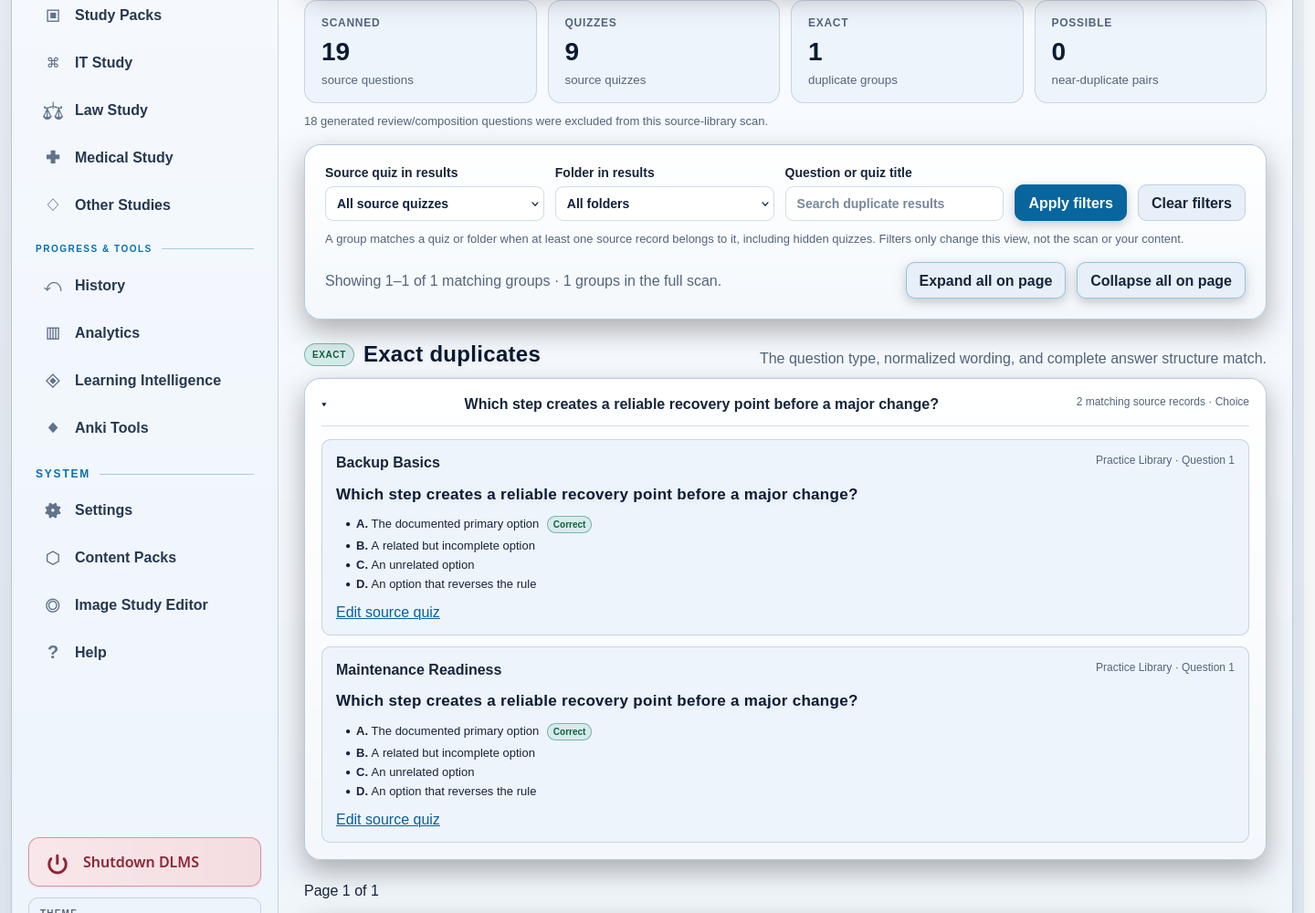
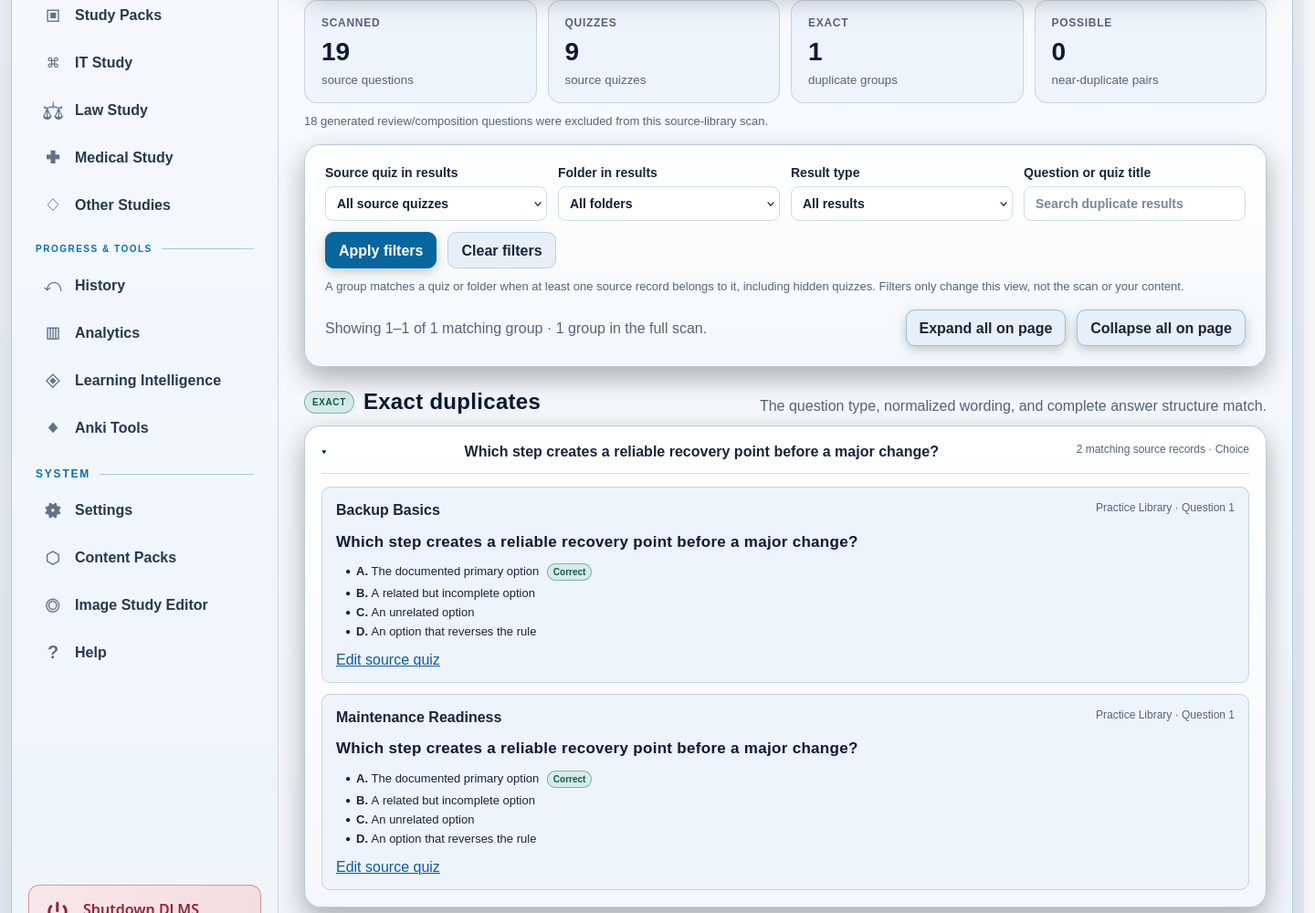
feat: add duplicate review result-type filtering

Changed region(s): [[0.0312, 0.186, 0.9688, 1.0], [0.8438, 0.775, 0.9375, 0.806], [0.8438, 0.713, 0.9375, 0.744]]

diff --git a/templates/quiz/duplicates.html b/templates/quiz/duplicates.html
@@ -63,13 +63,13 @@
             <form method="GET" action="/library/duplicates" class="duplicate-question-filters">
                 <label class="build-field"><span>Source quiz in results</span><select name="quiz" id="duplicateQuizFilter"><option value="">All source quizzes</option>{% for id, title in duplicate_view.quizzes %}<option value="{{ id }}"{% if duplicate_view.quiz == id|string %} selected{% endif %}>{{ title }} · Quiz #{{ id }}</option>{% endfor %}</select></label>
                 <label class="build-field"><span>Folder in results</span><select name="folder" id="duplicateFolderFilter"><option value="">All folders</option>{% for folder in duplicate_view.folders %}<option value="{{ folder }}"{% if duplicate_view.folder == folder %} selected{% endif %}>{{ folder }}</option>{% endfor %}</select></label>
+                <label class="build-field"><span>Result type</span><select name="result_type" id="duplicateResultTypeFilter"><option value="all"{% if duplicate_view.result_type == 'all' %} selected{% endif %}>All results</option><option value="exact"{% if duplicate_view.result_type == 'exact' %} selected{% endif %}>Exact duplicates</option><option value="possible"{% if duplicate_view.result_type == 'possible' %} selected{% endif %}>Possible matches</option></select></label>
                 <label class="build-field"><span>Question or quiz title</span><input type="search" name="search" id="duplicateSearch" value="{{ duplicate_view.search }}" placeholder="Search duplicate results"></label>
-                <button class="library-primary-action" type="submit">Apply filters</button>
-                <a class="library-secondary-action" href="/library/duplicates">Clear filters</a>
+                <div class="duplicate-question-filter-actions"><button class="library-primary-action" type="submit">Apply filters</button><a class="library-secondary-action" href="/library/duplicates">Clear filters</a></div>
             </form>
             <p class="duplicate-question-generated-note">A group matches a quiz or folder when at least one source record belongs to it, including hidden quizzes. Filters only change this view, not the scan or your content.</p>
             <div class="duplicate-question-navigation">
-                <p role="status">Showing {{ duplicate_view.start }}–{{ duplicate_view.end }} of {{ duplicate_view.matched_count }} matching groups · {{ duplicate_view.total_count }} groups in the full scan.</p>
+                <p role="status">Showing {{ duplicate_view.start }}–{{ duplicate_view.end }} of {{ duplicate_view.matched_count }} {{ duplicate_view.result_label }} · {{ duplicate_view.total_count }} group{% if duplicate_view.total_count != 1 %}s{% endif %} in the full scan.</p>
                 {% if duplicate_view.matched_count %}<button class="library-secondary-action compact" type="button" id="expandDuplicateGroups">Expand all on page</button><button class="library-secondary-action compact" type="button" id="collapseDuplicateGroups">Collapse all on page</button>{% endif %}
             </div>
         </section>

diff --git a/static/style.css b/static/style.css
@@ -152,6 +152,7 @@
 :is(.duplicate-question-summary,.portable-bundle-summary) .library-stat-card>*{min-width:0;overflow-wrap:anywhere;}
 .duplicate-question-tools{padding:22px;min-width:0;}
 .duplicate-question-filters{display:flex;flex-wrap:wrap;align-items:end;gap:12px;margin-bottom:12px;}
+.duplicate-question-filter-actions{display:flex;flex-wrap:wrap;gap:12px;}
 .duplicate-question-filters .build-field{flex:1 1 200px;min-width:0;max-width:100%;}
 .duplicate-question-filters input,.duplicate-question-filters select{width:100%;min-width:0;max-width:100%;}
 .duplicate-question-navigation{display:flex;flex-wrap:wrap;align-items:center;gap:12px;margin:16px 0;}

diff --git a/tests/browser/test_critical_workflows.py b/tests/browser/test_critical_workflows.py
@@ -9043,6 +9043,8 @@ def test_duplicate_question_report_is_advisory_and_links_to_source_editors(
     browser.press_key('\ue004')
     assert browser.evaluate("document.activeElement.id") == 'duplicateFolderFilter'
     browser.press_key('\ue004')
+    assert browser.evaluate("document.activeElement.id") == 'duplicateResultTypeFilter'
+    browser.press_key('\ue004')
     assert browser.evaluate("document.activeElement.id") == 'duplicateSearch'
 
     duplicate_url = browser.evaluate("location.href")
@@ -9068,6 +9070,7 @@ def test_duplicate_question_report_is_advisory_and_links_to_source_editors(
             "metric description": ".duplicate-question-summary .library-stat-card small",
             "filter label": ".duplicate-question-filters .build-field span",
             "quiz selector": "#duplicateQuizFilter",
+            "result type selector": "#duplicateResultTypeFilter",
             "search text": "#duplicateSearch",
             "collapse action": "#collapseDuplicateGroups",
         })
@@ -9101,6 +9104,11 @@ def test_duplicate_question_large_results_filters_and_pagination(browser_stack):
                                             (ids[-1], number, f'Compare synthetic item {number}: which option applies?'))
                 connection.executemany('INSERT INTO choices(question_id,label,text,is_correct) VALUES(?,?,?,?)',
                                        [(cursor.lastrowid, 'A', 'Expected', 1), (cursor.lastrowid, 'B', 'Alternative', 0)])
+            prompt = ('Which command displays the active network configuration?' if index == 0
+                      else 'Which command displays active network configuration?')
+            cursor = connection.execute("INSERT INTO questions(quiz_id,question_number,question_text,question_type) VALUES(?,45,?,'choice')", (ids[-1], prompt))
+            connection.executemany('INSERT INTO choices(question_id,label,text,is_correct) VALUES(?,?,?,?)',
+                                   [(cursor.lastrowid, 'A', 'Expected', 1), (cursor.lastrowid, 'B', 'Alternative', 0)])
         connection.commit()
         before = list(connection.iterdump())
     registry_path = browser_stack.data_root / 'config' / 'quizzes.json'
@@ -9114,12 +9122,30 @@ def test_duplicate_question_large_results_filters_and_pagination(browser_stack):
     url = f'{browser_stack.base_url}/library/duplicates'
     browser.navigate(url)
     browser.wait_for("document.querySelector('details.duplicate-question-group')")
+    full_totals = browser.evaluate("[...document.querySelectorAll('.duplicate-question-summary strong')].map(n=>n.textContent)")
     assert browser.evaluate("document.querySelectorAll('details.duplicate-question-group').length") == 20
     assert browser.evaluate("[...document.querySelectorAll('details.duplicate-question-group')].every(g=>!g.open)")
     browser.click('a[rel=next]')
     browser.wait_for("new URLSearchParams(location.search).get('page')==='2'")
     assert browser.evaluate("document.querySelectorAll('details.duplicate-question-group').length") <= 20
-    browser.navigate(url)
+    browser.evaluate(f"document.querySelector('#duplicateQuizFilter').value='{ids[1]}';document.querySelector('#duplicateFolderFilter').value='Uncategorized';document.querySelector('#duplicateSearch').value='network configuration';document.querySelector('#duplicateResultTypeFilter').value='possible'")
+    browser.click('.duplicate-question-filters button[type=submit]')
+    browser.wait_for("new URLSearchParams(location.search).get('result_type')==='possible'&&document.querySelector('#nearDuplicateHeading')")
+    assert browser.evaluate("!new URLSearchParams(location.search).has('page')&&document.querySelector('#duplicateResultTypeFilter').value==='possible'")
+    assert browser.evaluate("document.querySelector('#exactDuplicateHeading')===null&&document.querySelectorAll('details.duplicate-question-group').length===1")
+    assert browser.evaluate("document.querySelector('.duplicate-question-navigation [role=status]').textContent.includes('of 1 possible match')")
+    assert browser.evaluate("[...document.querySelectorAll('.duplicate-question-summary strong')].map(n=>n.textContent)") == full_totals
+    browser.click('#expandDuplicateGroups')
+    browser.wait_for("document.querySelector('details.duplicate-question-group').open")
+    browser.click('#collapseDuplicateGroups')
+    browser.wait_for("!document.querySelector('details.duplicate-question-group').open")
+    browser.evaluate("document.querySelector('#duplicateResultTypeFilter').value='exact';document.querySelector('#duplicateSearch').value=''")
+    browser.click('.duplicate-question-filters button[type=submit]')
+    browser.wait_for("new URLSearchParams(location.search).get('result_type')==='exact'&&document.querySelector('#exactDuplicateHeading')")
+    assert browser.evaluate("document.querySelector('#nearDuplicateHeading')===null&&document.querySelector('a[rel=next]').href.includes('result_type=exact')")
+    browser.click('a[rel=next]')
+    browser.wait_for("new URLSearchParams(location.search).get('page')==='2'")
+    assert browser.evaluate(f"document.querySelector('#duplicateQuizFilter').value==='{ids[1]}'&&document.querySelector('#duplicateFolderFilter').value==='Uncategorized'&&document.querySelector('#duplicateResultTypeFilter').value==='exact'")
     browser.evaluate(f"document.querySelector('#duplicateQuizFilter').value='{ids[1]}';document.querySelector('#duplicateFolderFilter').value='Uncategorized';document.querySelector('#duplicateSearch').value='item 44:'")
     browser.click('.duplicate-question-filters button[type=submit]')
     browser.wait_for("new URLSearchParams(location.search).get('search')==='item 44:'")
@@ -9130,6 +9156,7 @@ def test_duplicate_question_large_results_filters_and_pagination(browser_stack):
     browser.wait_for("document.querySelector('.duplicate-question-empty h2')?.textContent==='No matching groups'")
     browser.click('.duplicate-question-filters a')
     browser.wait_for("!location.search&&document.querySelectorAll('details.duplicate-question-group').length===20")
+    assert browser.evaluate("document.querySelector('#duplicateResultTypeFilter').value") == 'all'
     with sqlite3.connect(database) as connection:
         assert before == list(connection.iterdump())
 

diff --git a/tests/test_quiz_duplicate_view.py b/tests/test_quiz_duplicate_view.py
@@ -2,6 +2,7 @@
 
 import copy
 import unittest
+from urllib.parse import parse_qs, urlsplit
 
 from dlms.services.quiz_duplicate_view import duplicate_report_view
 
@@ -57,3 +58,62 @@ class DuplicateReportViewTests(unittest.TestCase):
         view = duplicate_report_view(self._report(25), {'quiz': '1', 'folder': 'Uncategorized', 'search': 'secure'})
         self.assertIn('quiz=1&folder=Uncategorized&search=secure&page=2', view['duplicate_view']['next_url'])
         self.assertTrue(duplicate_report_view(self._report(), {})['duplicate_view']['expanded'])
+
+    def test_result_type_filters_before_pagination_and_preserves_full_totals(self):
+        report = self._report(221)
+        report['near_groups'] *= 38
+        report['near_group_count'] = 38
+        before = copy.deepcopy(report)
+        for result_type, total, pages, exact, near, label in (
+            ('all', 259, 13, 20, 0, 'matching groups'),
+            ('exact', 221, 12, 20, 0, 'exact duplicate groups'),
+            ('possible', 38, 2, 0, 20, 'possible matches'),
+        ):
+            with self.subTest(result_type=result_type):
+                view = duplicate_report_view(report, {'result_type': result_type})
+                self.assertEqual(total, view['duplicate_view']['matched_count'])
+                self.assertEqual(pages, view['duplicate_view']['pages'])
+                self.assertEqual(label, view['duplicate_view']['result_label'])
+                self.assertEqual(exact, len(view['report']['exact_groups']))
+                self.assertEqual(near, len(view['report']['near_groups']))
+                self.assertEqual(221, view['report']['exact_group_count'])
+                self.assertEqual(38, view['report']['near_group_count'])
+                self.assertFalse(view['duplicate_view']['expanded'])
+        last = duplicate_report_view(report, {'result_type': 'possible', 'page': '13'})
+        self.assertEqual(2, last['duplicate_view']['page'])
+        self.assertEqual(18, len(last['report']['near_groups']))
+        self.assertEqual(before, report)
+
+    def test_result_type_combines_with_each_filter_and_all_filters(self):
+        report = self._report()
+        for args, expected in (
+            ({'result_type': 'all'}, 2),
+            ({'result_type': 'exact', 'quiz': '2'}, 1),
+            ({'result_type': 'possible', 'quiz': '2'}, 0),
+            ({'result_type': 'possible', 'quiz': '3'}, 1),
+            ({'result_type': 'exact', 'folder': 'Custom'}, 1),
+            ({'result_type': 'possible', 'folder': 'Custom'}, 0),
+            ({'result_type': 'possible', 'search': 'candidate'}, 1),
+            ({'result_type': 'exact', 'search': 'candidate'}, 0),
+            ({'result_type': 'possible', 'quiz': '3', 'folder': 'Other', 'search': 'CANDIDATE'}, 1),
+            ({'result_type': 'exact', 'quiz': '2', 'folder': 'Uncategorized', 'search': 'secure'}, 1),
+            ({'result_type': 'possible', 'quiz': '3', 'folder': 'Other', 'search': 'secure', 'page': '9'}, 0),
+        ):
+            with self.subTest(args=args):
+                view = duplicate_report_view(report, args)['duplicate_view']
+                self.assertEqual(expected, view['matched_count'])
+                self.assertEqual(1, view['page'])
+        self.assertEqual('possible match', duplicate_report_view(report, {'result_type': 'possible'})['duplicate_view']['result_label'])
+        self.assertEqual('exact duplicate group', duplicate_report_view(report, {'result_type': 'exact'})['duplicate_view']['result_label'])
+
+    def test_pagination_preserves_result_type_and_all_other_filters(self):
+        report = self._report()
+        report['near_groups'] *= 38
+        args = dict(result_type='possible', quiz='3', folder='Other', search='candidate')
+        view = duplicate_report_view(report, args)['duplicate_view']
+        query = parse_qs(urlsplit(view['next_url']).query)
+        self.assertEqual({**{key: [value] for key, value in args.items()}, 'page': ['2']}, query)
+        reset = duplicate_report_view(report, {})['duplicate_view']
+        self.assertEqual('all', reset['result_type'])
+        self.assertEqual(39, reset['matched_count'])
+        self.assertEqual('all', duplicate_report_view(report, {'result_type': 'unsupported'})['duplicate_view']['result_type'])

diff --git a/tests/test_quiz_duplicate_detection.py b/tests/test_quiz_duplicate_detection.py
@@ -298,7 +298,7 @@ class QuizDuplicateDetectionTests(unittest.TestCase):
         self.assertIn('details class="dashboard-panel duplicate-question-group" open', html)
         self.assertIn('Expand all on page', html)
         self.assertIn('Collapse all on page', html)
-        self.assertIn('Showing 1–1 of 1 matching groups', html)
+        self.assertIn('Showing 1–1 of 1 matching group', html)
         empty = client.get('/library/duplicates?search=nonexistent').get_data(as_text=True)
         self.assertIn('No matching groups', empty)
         self.assertNotIn('details class="dashboard-panel duplicate-question-group"', empty)
@@ -321,6 +321,45 @@ class QuizDuplicateDetectionTests(unittest.TestCase):
             self.assertIn('Showing 1–20 of 221 matching groups', html)
             self.assertIn('Next page', html)
             self.assertEqual(221, len(report['exact_groups']))
+
+    def test_result_type_route_preserves_scan_and_filters_before_pagination(self):
+        first = self._seed('Source Bank', 'first.html', [self._choice('Repeated question')], folder='CISM')
+        self._seed('Second Bank', 'second.html', [self._choice('Repeated question')])
+        self._seed('Original', 'original.html', [self._choice('Which command displays the active network configuration?')], folder='CISM')
+        self._seed('Rewrite', 'rewrite.html', [self._choice('Which command displays active network configuration?')])
+        report = self._report()
+        self.assertEqual((1, 1), (report['exact_group_count'], report['near_group_count']))
+        report['exact_groups'] *= 221
+        report['near_groups'] *= 38
+        report['exact_group_count'], report['near_group_count'] = 221, 38
+        connection = dlms.get_db()
+        before = list(connection.iterdump())
+        connection.close()
+        client = dlms.app.test_client()
+        with mock.patch.object(dlms._quiz_duplicate_service, 'build_quiz_duplicate_report', return_value=report):
+            possible = client.get('/library/duplicates?result_type=possible&page=13').get_data(as_text=True)
+            self.assertIn('Showing 21–38 of 38 possible matches', possible)
+            self.assertIn('id="nearDuplicateHeading"', possible)
+            self.assertNotIn('id="exactDuplicateHeading"', possible)
+            self.assertIn('value="possible" selected', possible)
+            self.assertIn('result_type=possible&amp;', possible)
+            self.assertNotIn('name="page"', possible)  # Applying filters starts at page one.
+            for total in (221, 38):
+                self.assertIn(f'<strong>{total}</strong>', possible)
+            exact = client.get('/library/duplicates', query_string=dict(result_type='exact', quiz=first, folder='CISM', search='Repeated', page=2)).get_data(as_text=True)
+            self.assertIn('Showing 21–40 of 221 exact duplicate groups', exact)
+            self.assertIn('id="exactDuplicateHeading"', exact)
+            self.assertNotIn('id="nearDuplicateHeading"', exact)
+            empty = client.get('/library/duplicates', query_string=dict(result_type='possible', quiz=first)).get_data(as_text=True)
+            self.assertIn('No matching groups', empty)
+            reset = client.get('/library/duplicates').get_data(as_text=True)
+            self.assertIn('value="all" selected', reset)
+            self.assertIn('Showing 1–20 of 259 matching groups', reset)
+        connection = dlms.get_db()
+        try:
+            self.assertEqual(before, list(connection.iterdump()))
+        finally:
+            connection.close()
 
 
 if __name__ == "__main__":

diff --git a/dlms/services/quiz_duplicate_view.py b/dlms/services/quiz_duplicate_view.py
@@ -12,6 +12,9 @@ def duplicate_report_view(report, args):
     quiz = str(args.get('quiz') or '')
     folder = str(args.get('folder') or '')
     search = str(args.get('search') or '').strip()
+    result_type = str(args.get('result_type') or 'all')
+    if result_type not in {'all', 'exact', 'possible'}:
+        result_type = 'all'
     needle = search.casefold()
     all_groups = [('exact', group, group['questions']) for group in report['exact_groups']]
     all_groups += [
@@ -25,6 +28,8 @@ def duplicate_report_view(report, args):
         for record in records:
             quizzes[record['quiz_id']] = record['quiz_title']
             folders.add(record['folder'])
+        if result_type != 'all' and kind != ('near' if result_type == 'possible' else 'exact'):
+            continue
         if quiz and not any(str(record['quiz_id']) == quiz for record in records):
             continue
         if folder and not any(record['folder'] == folder for record in records):
@@ -45,8 +50,15 @@ def duplicate_report_view(report, args):
 
     def page_url(number):
         return '/library/duplicates?' + urlencode({
+            'result_type': result_type,
             'quiz': quiz, 'folder': folder, 'search': search, 'page': number,
         })
+
+    result_labels = {
+        'all': ('matching group', 'matching groups'),
+        'exact': ('exact duplicate group', 'exact duplicate groups'),
+        'possible': ('possible match', 'possible matches'),
+    }
 
     return {
         'report': {**report,
@@ -54,6 +66,8 @@ def duplicate_report_view(report, args):
                    'near_groups': [group for kind, group in visible if kind == 'near']},
         'duplicate_view': {
             'quiz': quiz, 'folder': folder, 'search': search,
+            'result_type': result_type,
+            'result_label': result_labels[result_type][len(matches) != 1],
             'quizzes': sorted(quizzes.items(), key=lambda item: (item[1].casefold(), item[0])),
             'folders': sorted(folders, key=str.casefold),
             'matched_count': len(matches), 'total_count': len(all_groups),

diff --git a/docs/user-manual/SCREENSHOT_PLAN.md b/docs/user-manual/SCREENSHOT_PLAN.md
@@ -51,7 +51,7 @@ deferred second state for every ID.
 | UM-02 | 4. Creating/importing | Build Quiz hub | Distinguish manual, text/paste, PDF/Image, matching CSV, and External AI paths | No uploads or local filenames visible | Focused full content area; Light | `build_quiz.webp` is a likely reusable candidate | High value, moderate staleness |
 | UM-03 | 5. Library organization | Quiz Library with one folder, active Generated Practice Smart View, badges, source summaries, search, and Library Tools | Folder versus Smart View; active filter; Generated Practice badge; aggregate source-quiz provenance; return to full library | Neutral source quizzes and generated sessions with deterministic question lineage; use non-branded topics | Viewport focused from the active Smart View through the generated cards; Light, with narrow layout separately tested but not necessarily published | No verified current asset; `dashboard.webp` is not a substitute | Essential for 3.2; high staleness |
 | UM-04 | 5. Mixed Quiz | Mixed Quiz Builder after filters are applied and questions from two sources selected | Source/folder/concept/missed filters; provenance; selected total; title and create action | Two small synthetic source quizzes with repeated neutral concepts | Focused content area; Light | None | High value; moderate staleness |
-| UM-05 | 5. Duplicate review | Duplicate Question Review with an expanded exact-match group and result controls | Quiz/folder/search filters; page-scoped expand/collapse; source quiz/question context; advisory-only nature; Edit source link | Purpose-written synthetic questions; no copied material; the current deterministic fixture has no possible matches | Focused content area; Light | None | Useful for a non-obvious workflow; low-to-moderate staleness |
+| UM-05 | 5. Duplicate review | Duplicate Question Review with an expanded exact-match group and result controls | Result-type/quiz/folder/search filters; page-scoped expand/collapse; source quiz/question context; advisory-only nature; Edit source link | Purpose-written synthetic questions; no copied material; the current deterministic fixture has no possible matches | Focused content area; Light | None | Useful for a non-obvious workflow; low-to-moderate staleness |
 | UM-06 | 5/15. Portable bundles | Quiz Bundles screen with export selection and a validated import preview | Selected source quizzes; bundle scope; preview, rename notice, confirm/cancel; distinction from Study Packs/backups | Two neutral quizzes, one harmless local image, one intentional title collision | Two focused captures may be clearer than one; Light | None | High value; moderate staleness |
 | UM-07 | 6. Taking quizzes | Choice quiz in Study Mode after an incorrect response has been saved | Immediate feedback, correct-answer indication, explanation, question navigation, Anki selection if visible | Four neutral questions; no vendor material | Focused quiz area; Light | `quiz_study_mode_incorrect.webp` and `quiz_study_mode_correct.webp` are candidates | Essential; medium staleness |
 | UM-08 | 6. Taking quizzes | Exam Mode with timer, several answered/unanswered states, and submit action | Timer/pause; previous/next; completion status; final submission; no immediate correctness | Neutral quiz; timer set to an obvious demo value | Focused quiz area; Light | `quiz_exam_mode.webp` is a candidate | Essential; medium staleness |

diff --git a/docs/user-manual/SCREENSHOT_MANIFEST.md b/docs/user-manual/SCREENSHOT_MANIFEST.md
@@ -40,7 +40,7 @@ the optional secondary states remain uninserted.
 | UM-02 | Build Quiz hub | Fully automatable | Captured | [UM-02-build-quiz-hub.png](images/UM-02-build-quiz-hub.png) | Current content-acquisition choices without a selected local file. |
 | UM-03 | Generated Practice Smart View | Fully automatable | Captured | [UM-03-generated-practice-smart-view.png](images/UM-03-generated-practice-smart-view.png) | Refreshed with v2 synthetic lineage data; active dynamic view, generated badges, and aggregate source-quiz disclosures are visible. |
 | UM-04 | Mixed Quiz Builder | Fully automatable | Captured | [UM-04-mixed-quiz-builder.png](images/UM-04-mixed-quiz-builder.png) | Four questions selected from two synthetic sources. |
-| UM-05 | Duplicate Question Review | Fully automatable | Captured | [UM-05-duplicate-question-review.png](images/UM-05-duplicate-question-review.png) | Advisory matches with quiz/folder/search filters and page-scoped expand/collapse controls. |
+| UM-05 | Duplicate Question Review | Fully automatable | Captured | [UM-05-duplicate-question-review.png](images/UM-05-duplicate-question-review.png) | Advisory matches with result-type/quiz/folder/search filters and page-scoped expand/collapse controls. |
 | UM-06 | Portable Quiz Bundle review | Partially automatable | Primary state captured | [UM-06-portable-quiz-bundle-review.png](images/UM-06-portable-quiz-bundle-review.png) | Validated collision/rename preview with stacked summary metrics; export selection is an optional second frame. |
 | UM-07 | Study Mode feedback | Fully automatable | Captured | [UM-07-study-mode-feedback.png](images/UM-07-study-mode-feedback.png) | Saved incorrect answer with immediate feedback. |
 | UM-08 | Exam Mode in progress | Fully automatable | Captured | [UM-08-exam-mode.png](images/UM-08-exam-mode.png) | Multi-answer question in progress without correctness feedback. |

diff --git a/docs/user-manual/05-quiz-library-and-organization.md b/docs/user-manual/05-quiz-library-and-organization.md
@@ -188,9 +188,12 @@ The report shows the source quiz, folder, question number, question text, and
 answers or matching pairs. Generated review and composition copies are excluded
 from this source-library scan so they do not create expected noise.
 
-Use **Source quiz in results**, **Folder in results**, and the question/quiz-title
-search together, then choose **Apply filters**. A group matches a quiz or folder
-if at least one of its source records belongs to it; hidden quizzes are included.
+Use **Result type** to choose **All results**, **Exact duplicates**, or **Possible
+matches** without paging through another result type first. Combine it with
+**Source quiz in results**, **Folder in results**, and the question/quiz-title
+search, then choose **Apply filters**. Applying filters starts at the first page.
+A group matches a quiz or folder if at least one of its source records belongs to
+it; hidden quizzes are included.
 **Clear filters** restores the full result view. The summary still describes the
 complete scan, not just the filtered results.
 
